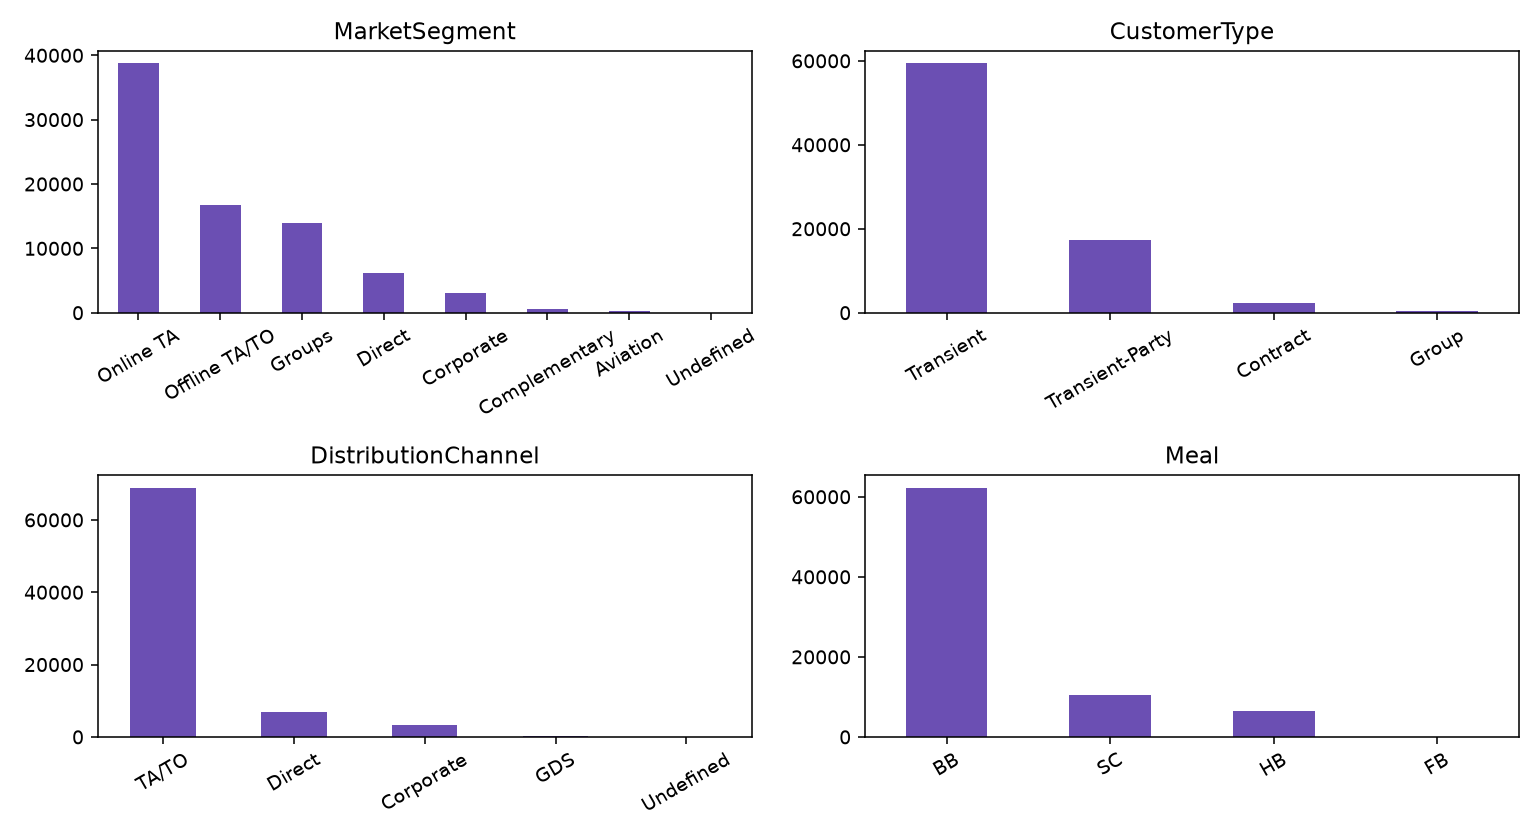
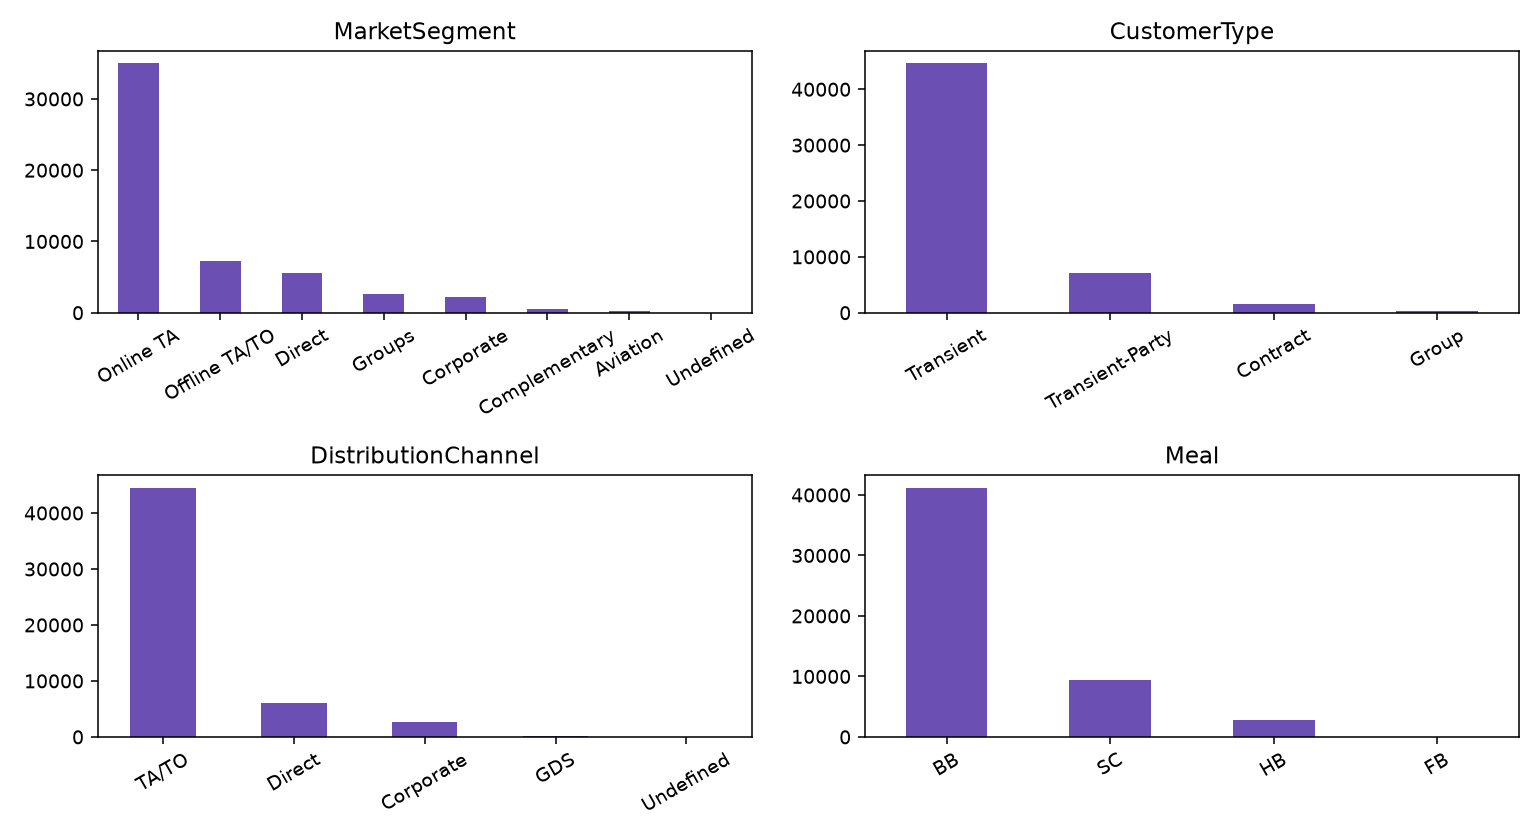
Phase 1: add data-understanding graphs and tables for shared cleaning and preprocessing

diff --git a/src/eda_plots_all.py b/src/eda_plots_all.py
@@ -1,0 +1,268 @@
+"""Phase 1: ALL EDA figures in one script. Read-only.
+
+Run from the project root:   python src/eda_plots_all.py
+Data: data/raw/H2.csv with exact duplicates removed (nothing else is changed).
+Figures: p1_* (skew, dominant values, categories) and p1b_01 .. p1b_11 in outputs/figures/.
+Tables:  p1b_column_table.csv and p1b_timing_table.csv in outputs/tables/.
+"""
+import matplotlib
+matplotlib.use("Agg")
+import matplotlib.pyplot as plt
+import numpy as np
+import pandas as pd
+import seaborn as sns
+from pathlib import Path
+from scipy.stats import chi2_contingency
+from sklearn.decomposition import PCA
+from sklearn.neighbors import NearestNeighbors
+from sklearn.preprocessing import StandardScaler
+
+SEED = 42
+rng = np.random.default_rng(SEED)
+RAW = Path("data/raw/H2.csv")
+FIG = Path("outputs/figures"); FIG.mkdir(parents=True, exist_ok=True)
+TAB = Path("outputs/tables"); TAB.mkdir(parents=True, exist_ok=True)
+
+# ---------- load: strip, NULL -> NaN, drop exact duplicates (nothing else) ----------
+df = pd.read_csv(RAW, dtype=str)
+df = df.apply(lambda s: s.str.strip()).replace({"NULL": np.nan, "": np.nan})
+NUM = ["LeadTime", "ArrivalDateYear", "ArrivalDateWeekNumber", "ArrivalDateDayOfMonth",
+       "StaysInWeekendNights", "StaysInWeekNights", "Adults", "Children", "Babies",
+       "PreviousCancellations", "PreviousBookingsNotCanceled", "BookingChanges",
+       "DaysInWaitingList", "ADR", "RequiredCarParkingSpaces", "TotalOfSpecialRequests",
+       "IsRepeatedGuest", "IsCanceled"]
+for c in NUM:
+    df[c] = pd.to_numeric(df[c], errors="coerce")
+df = df.drop_duplicates().reset_index(drop=True)
+MONTHS = ["January", "February", "March", "April", "May", "June", "July", "August",
+          "September", "October", "November", "December"]
+df["Month"] = df.ArrivalDateMonth.map({m: i + 1 for i, m in enumerate(MONTHS)})
+df["TotalNights"] = df.StaysInWeekendNights + df.StaysInWeekNights
+df["TotalGuests"] = df.Adults + df.Children.fillna(0) + df.Babies
+CAT = ["Meal", "Country", "MarketSegment", "DistributionChannel", "ReservedRoomType",
+       "AssignedRoomType", "DepositType", "Agent", "CustomerType"]
+print(f"rows after removing duplicates: {len(df)}")
+
+# ---------- 0. The three first figures (skew, dominant values, categories) ----------
+cols0 = ["LeadTime", "TotalNights", "StaysInWeekNights"]
+fig, ax = plt.subplots(2, 3, figsize=(11, 5.5))
+for j, c in enumerate(cols0):
+    ax[0, j].hist(df[c].dropna(), bins=50, color="#2F5DA8")
+    ax[0, j].set_title(f"{c} (raw), skew {df[c].skew():.2f}")
+    ax[1, j].hist(np.log1p(df[c].dropna()), bins=50, color="#0E8A8A")
+    ax[1, j].set_title(f"log1p({c}), skew {np.log1p(df[c]).skew():.2f}")
+plt.tight_layout(); plt.savefig(FIG / "p1_skew_raw_vs_log.png", dpi=140); plt.close()
+
+share = {c: df[c].value_counts(normalize=True, dropna=True).iloc[0] for c in df.columns[:31] if c != "ADR"}
+sh = pd.Series(share).sort_values()
+fig, ax = plt.subplots(figsize=(7, 8))
+ax.barh(sh.index, sh.values, color=["#C8433B" if v > 0.9 else "#2F5DA8" for v in sh.values])
+ax.axvline(0.9, color="#C8433B", ls="--", lw=1)
+ax.set_title("Share of rows holding the most common value (red: over 90%)")
+plt.tight_layout(); plt.savefig(FIG / "p1_dominant_value_share.png", dpi=140); plt.close()
+
+cats0 = ["MarketSegment", "CustomerType", "DistributionChannel", "Meal"]
+fig, ax = plt.subplots(2, 2, figsize=(11, 6))
+for a, c in zip(ax.ravel(), cats0):
+    df[c].value_counts().plot.bar(ax=a, color="#6B4FB3"); a.set_title(c); a.set_xlabel("")
+    a.tick_params(axis="x", rotation=30)
+plt.tight_layout(); plt.savefig(FIG / "p1_categories.png", dpi=140); plt.close()
+
+# ---------- 1-2. Scales and outliers ----------
+cols = ["LeadTime", "TotalNights", "Adults", "Children", "Babies", "BookingChanges",
+        "DaysInWaitingList", "PreviousCancellations", "PreviousBookingsNotCanceled",
+        "TotalOfSpecialRequests", "ADR"]
+fig, ax = plt.subplots(1, 2, figsize=(13, 5))
+ax[0].boxplot([df[c].dropna() for c in cols], vert=False, flierprops=dict(markersize=2))
+ax[0].set_yticks(range(1, len(cols) + 1)); ax[0].set_yticklabels(cols)
+ax[0].set_xscale("symlog"); ax[0].set_title("Raw ranges (log-style axis): the scales differ a lot")
+out = {}
+for c in cols:
+    x = df[c].dropna(); q1, q3 = x.quantile([.25, .75]); iqr = q3 - q1
+    out[c] = ((x < q1 - 1.5 * iqr) | (x > q3 + 1.5 * iqr)).mean() * 100
+o = pd.Series(out).sort_values()
+ax[1].barh(o.index, o.values, color=["#C8433B" if v > 10 else "#2F5DA8" for v in o.values])
+ax[1].set_title("% of rows outside 1.5 x IQR (red: over 10%)")
+plt.tight_layout(); plt.savefig(FIG / "p1b_01_scales_outliers.png", dpi=140); plt.close()
+
+# ---------- 3-4. Few-value numbers and zero-heavy columns ----------
+fig, ax = plt.subplots(1, 4, figsize=(14, 3.6))
+for a, c in zip(ax[:3], ["Adults", "Children", "Babies"]):
+    df[c].value_counts().sort_index().plot.bar(ax=a, color="#6B4FB3"); a.set_title(f"{c}: few values"); a.set_xlabel("")
+zc = ["Children", "Babies", "DaysInWaitingList", "PreviousCancellations", "PreviousBookingsNotCanceled",
+      "BookingChanges", "RequiredCarParkingSpaces", "TotalOfSpecialRequests", "IsRepeatedGuest"]
+z = pd.Series({c: (df[c] == 0).mean() * 100 for c in zc}).sort_values()
+ax[3].barh(z.index, z.values, color="#0E8A8A"); ax[3].set_title("% of rows equal to 0")
+plt.tight_layout(); plt.savefig(FIG / "p1b_02_discrete_and_zeros.png", dpi=140); plt.close()
+
+# ---------- 5. Spearman correlation (numeric) ----------
+nc = ["LeadTime", "TotalNights", "StaysInWeekendNights", "StaysInWeekNights", "Adults", "Children", "Babies",
+      "BookingChanges", "DaysInWaitingList", "PreviousCancellations", "PreviousBookingsNotCanceled",
+      "TotalOfSpecialRequests", "RequiredCarParkingSpaces", "IsRepeatedGuest", "ArrivalDateWeekNumber"]
+fig, ax = plt.subplots(figsize=(9, 7.5))
+sns.heatmap(df[nc].corr(method="spearman"), cmap="RdBu_r", center=0, vmin=-1, vmax=1, annot=True, fmt=".2f",
+            annot_kws={"size": 6}, ax=ax)
+ax.set_title("Spearman correlation: look for pairs above 0.6 (duplicate information)")
+plt.tight_layout(); plt.savefig(FIG / "p1b_03_spearman.png", dpi=140); plt.close()
+
+# ---------- 6. Cramer's V (categorical) ----------
+def cramers_v(a, b):
+    t = pd.crosstab(a, b)
+    chi2 = chi2_contingency(t, correction=False)[0]
+    n = t.values.sum(); r, k = t.shape
+    return np.sqrt(chi2 / (n * (min(r, k) - 1))) if min(r, k) > 1 else 0.0
+cv = pd.DataFrame(index=CAT, columns=CAT, dtype=float)
+sub = df[CAT].fillna("missing")
+for a in CAT:
+    for b in CAT:
+        cv.loc[a, b] = 1.0 if a == b else cramers_v(sub[a], sub[b])
+fig, ax = plt.subplots(figsize=(8, 6.5))
+sns.heatmap(cv, cmap="viridis", vmin=0, vmax=1, annot=True, fmt=".2f", annot_kws={"size": 7}, ax=ax)
+ax.set_title("Cramer's V between categorical columns (0 none, 1 identical)")
+plt.tight_layout(); plt.savefig(FIG / "p1b_04_cramers_v.png", dpi=140); plt.close()
+
+# ---------- 7. Category versus number ----------
+fig, ax = plt.subplots(1, 3, figsize=(15, 4.5))
+for a, (cat, num) in zip(ax, [("MarketSegment", "LeadTime"), ("DepositType", "LeadTime"), ("CustomerType", "ADR")]):
+    d = df[df.ADR < 1000] if num == "ADR" else df
+    sns.boxplot(data=d, x=cat, y=num, ax=a, fliersize=1, color="#9DB7E0")
+    a.set_title(f"{num} by {cat}"); a.tick_params(axis="x", rotation=35); a.set_xlabel("")
+plt.tight_layout(); plt.savefig(FIG / "p1b_05_category_vs_number.png", dpi=140); plt.close()
+
+# ---------- 8. Duplicates after encoding on candidate columns ----------
+cands = {
+    "all 31 columns": list(df.columns[:31]),
+    "no ADR/status/dates (28)": [c for c in df.columns[:31] if c not in ("ADR", "ReservationStatus", "ReservationStatusDate", "IsCanceled")],
+    "7 core columns": ["LeadTime", "StaysInWeekendNights", "StaysInWeekNights", "Adults", "IsRepeatedGuest", "MarketSegment", "CustomerType"],
+    "4 numeric only": ["LeadTime", "TotalNights", "Adults", "BookingChanges"],
+}
+dist = {k: len(df[v].drop_duplicates()) for k, v in cands.items()}
+fig, ax = plt.subplots(figsize=(7.5, 3.6))
+ax.barh(list(dist.keys()), list(dist.values()), color="#B8800A")
+ax.axvline(len(df), color="k", ls="--"); ax.text(len(df), -0.45, f" rows: {len(df)}", fontsize=8)
+for i, v in enumerate(dist.values()): ax.text(v, i, f" {v}", va="center", fontsize=8)
+ax.set_title("Distinct rows on chosen columns (fewer = more ties for DBSCAN)")
+plt.tight_layout(); plt.savefig(FIG / "p1b_06_duplicates_after_selection.png", dpi=140); plt.close()
+
+# ---------- 9. Impossible values and missingness ----------
+rules = {
+    "Adults+Children+Babies = 0": (df.TotalGuests == 0).sum(),
+    "TotalNights = 0": (df.TotalNights == 0).sum(),
+    "ADR <= 0": (df.ADR <= 0).sum(),
+    "ADR > 1000": (df.ADR > 1000).sum(),
+    "Babies > 2": (df.Babies > 2).sum(),
+    "MarketSegment = Undefined": (df.MarketSegment == "Undefined").sum(),
+    "DistributionChannel = Undefined": (df.DistributionChannel == "Undefined").sum(),
+}
+miss = df.isna().mean() * 100
+miss = miss[miss > 0].sort_values()
+fig, ax = plt.subplots(1, 2, figsize=(13, 4))
+r = pd.Series(rules).sort_values()
+ax[0].barh(r.index, r.values, color="#C8433B"); ax[0].set_title("Rows breaking a sanity rule")
+for i, v in enumerate(r.values): ax[0].text(v, i, f" {v}", va="center", fontsize=8)
+ax[1].barh(miss.index, miss.values, color="#2F5DA8"); ax[1].set_title("% missing per column")
+plt.tight_layout(); plt.savefig(FIG / "p1b_07_impossible_and_missing.png", dpi=140); plt.close()
+mm = df[["Agent", "Company", "Country", "Children"]].isna()
+print("missing together (rows):\n", mm.value_counts().to_string())
+
+# ---------- 10. Rare categories (cumulative coverage) ----------
+fig, ax = plt.subplots(figsize=(7.5, 4))
+for c in ["Country", "Agent"]:
+    s = df[c].fillna("missing").value_counts(normalize=True).cumsum().values
+    ax.plot(np.arange(1, len(s) + 1), s * 100, label=f"{c} ({len(s)} values)")
+ax.axhline(90, color="k", ls="--", lw=.8); ax.set_xscale("log")
+ax.set_xlabel("number of top categories kept"); ax.set_ylabel("% of rows covered"); ax.legend()
+ax.set_title("How many categories cover 90% of rows?")
+plt.tight_layout(); plt.savefig(FIG / "p1b_08_rare_categories.png", dpi=140); plt.close()
+
+# ---------- 11-12. Seasonality and cyclical month ----------
+fig, ax = plt.subplots(1, 2, figsize=(12, 4))
+(df.groupby(["Month", "ArrivalDateYear"]).size().unstack().plot(ax=ax[0], marker="o"))
+ax[0].set_title("Bookings per arrival month and year"); ax[0].set_xlabel("month")
+m = df.Month.value_counts().sort_index()
+ang = 2 * np.pi * (m.index - 1) / 12
+ax[1].scatter(np.sin(ang), np.cos(ang), s=m.values / m.values.max() * 600, color="#0E8A8A")
+for a_, i in zip(ang, m.index): ax[1].text(np.sin(a_) * 1.18, np.cos(a_) * 1.18, str(i), ha="center", va="center")
+ax[1].set_aspect("equal"); ax[1].axis("off"); ax[1].set_title("Months on a circle (12 sits next to 1)")
+plt.tight_layout(); plt.savefig(FIG / "p1b_09_seasonality_cyclical.png", dpi=140); plt.close()
+
+# ---------- 13. Timing table (fill the last column yourself) ----------
+timing = pd.DataFrame([
+    ("IsCanceled", "outcome", "Never use"),
+    ("ReservationStatus", "outcome (copy of IsCanceled)", "Never use"),
+    ("ReservationStatusDate", "after the booking", "Never use"),
+    ("ADR", "Task A target", "Exclude"),
+    ("AssignedRoomType", "set at check-in", "Uncertain, exclude to be safe"),
+    ("BookingChanges", "grows until check-in", "Uncertain, exclude to be safe"),
+    ("RequiredCarParkingSpaces", "may change later", "Uncertain"),
+    ("TotalOfSpecialRequests", "may change later", "Uncertain"),
+    ("DaysInWaitingList", "known by confirmation", "Probably fine"),
+    ("LeadTime, Adults, Meal, MarketSegment, ...", "known at booking", "Fine"),
+], columns=["column", "when it is known", "your decision (edit this)"])
+timing.to_csv(TAB / "p1b_timing_table.csv", index=False)
+
+# ---------- 14. Cluster tendency: Hopkins + kNN distance ----------
+core = ["LeadTime", "TotalNights", "Adults", "Children", "Babies", "BookingChanges", "DaysInWaitingList",
+        "PreviousCancellations", "PreviousBookingsNotCanceled", "TotalOfSpecialRequests", "RequiredCarParkingSpaces",
+        "IsRepeatedGuest"]
+X = df[core].fillna(0).copy()
+X["LeadTime"] = np.log1p(X.LeadTime); X["TotalNights"] = np.log1p(X.TotalNights)
+X = X.drop_duplicates()   # identical rows give nearest-neighbour distance 0 and fake a high Hopkins value
+print(f"distinct rows on these 12 columns: {len(X)} of {len(df)}")
+Xs = StandardScaler().fit_transform(X)
+def hopkins(A, m=1000, seeds=5):
+    vals = []
+    for s in range(seeds):
+        r = np.random.default_rng(SEED + s)
+        idx = r.choice(len(A), m, replace=False)
+        nn = NearestNeighbors(n_neighbors=2).fit(A)
+        w = nn.kneighbors(A[idx], 2)[0][:, 1]
+        U = r.uniform(A.min(0), A.max(0), size=(m, A.shape[1]))
+        u = nn.kneighbors(U, 1)[0][:, 0]
+        vals.append(u.sum() / (u.sum() + w.sum()))
+    return float(np.mean(vals)), float(np.std(vals))
+h, hs = hopkins(Xs)
+# Fair comparison: shuffle each column on its own (keeps every column's shape, destroys relations between columns)
+Xsh = np.column_stack([rng.permutation(Xs[:, j]) for j in range(Xs.shape[1])])
+h0, _ = hopkins(Xsh)
+print(f"Hopkins statistic (12 numeric columns): {h:.3f} +- {hs:.3f};  shuffled-columns baseline: {h0:.3f}")
+kn = NearestNeighbors(n_neighbors=10).fit(Xs)
+d10 = np.sort(kn.kneighbors(Xs[rng.choice(len(Xs), 8000, replace=False)])[0][:, -1])
+fig, ax = plt.subplots(1, 2, figsize=(11, 4))
+ax[0].bar(["shuffled columns\n(no relations)", "real data"], [h0, h], color=["#999", "#0E8A8A"])
+ax[0].set_ylim(0, 1); ax[0].set_title(f"Hopkins: real {h:.2f} vs shuffled {h0:.2f}\n(compare the two, not with 0.5)")
+ax[1].plot(d10, color="#2F5DA8"); ax[1].set_title("Sorted distance to 10th neighbour (DBSCAN eps hint)")
+ax[1].set_xlabel("points, sorted"); ax[1].set_ylabel("distance")
+plt.tight_layout(); plt.savefig(FIG / "p1b_10_cluster_tendency.png", dpi=140); plt.close()
+
+# ---------- 15. PCA 2D, for VIEWING only ----------
+S = df.sample(8000, random_state=SEED)
+Xv = pd.concat([pd.DataFrame(StandardScaler().fit_transform(
+        np.column_stack([np.log1p(S.LeadTime), np.log1p(S.TotalNights),
+                         S[["Adults", "Children", "Babies", "BookingChanges", "DaysInWaitingList",
+                            "PreviousCancellations", "TotalOfSpecialRequests"]].fillna(0).values]))),
+                pd.get_dummies(S[["MarketSegment", "CustomerType", "DepositType"]]).astype(float).reset_index(drop=True) * 0.5],
+               axis=1)
+Xv.columns = Xv.columns.astype(str)
+pca = PCA(2, random_state=SEED).fit(Xv); P = pca.transform(Xv)
+fig, ax = plt.subplots(1, 2, figsize=(12, 5))
+ax[0].scatter(P[:, 0], P[:, 1], s=3, alpha=.3, color="#2F5DA8"); ax[0].set_title(f"PCA 2D ({pca.explained_variance_ratio_.sum()*100:.0f}% of variance kept)")
+for k, col in zip(S.MarketSegment.fillna("NA").unique(), sns.color_palette("tab10", 10)):
+    mk = (S.MarketSegment.fillna("NA") == k).values
+    ax[1].scatter(P[mk, 0], P[mk, 1], s=3, alpha=.4, color=col, label=k)
+ax[1].legend(markerscale=4, fontsize=7); ax[1].set_title("Same plot coloured by MarketSegment (viewing only)")
+plt.tight_layout(); plt.savefig(FIG / "p1b_11_pca_view.png", dpi=140); plt.close()
+
+# ---------- column summary table ----------
+rows = []
+for c in df.columns[:31]:
+    x = df[c]
+    isn = pd.api.types.is_numeric_dtype(x)
+    rows.append(dict(column=c, type="numeric" if isn else "categorical", missing_pct=round(x.isna().mean() * 100, 2),
+                     unique=x.nunique(), dominant_share=round(x.value_counts(normalize=True).iloc[0], 3),
+                     skew=round(x.skew(), 2) if isn else "", outlier_pct=round(
+                         ((x < x.quantile(.25) - 1.5 * (x.quantile(.75) - x.quantile(.25))) |
+                          (x > x.quantile(.75) + 1.5 * (x.quantile(.75) - x.quantile(.25)))).mean() * 100, 1) if isn else "",
+                     role="(fill in: use / exclude / undecided)"))
+pd.DataFrame(rows).to_csv(TAB / "p1b_column_table.csv", index=False)
+print("figures in outputs/figures (p1b_*), tables in outputs/tables (p1b_*)")
